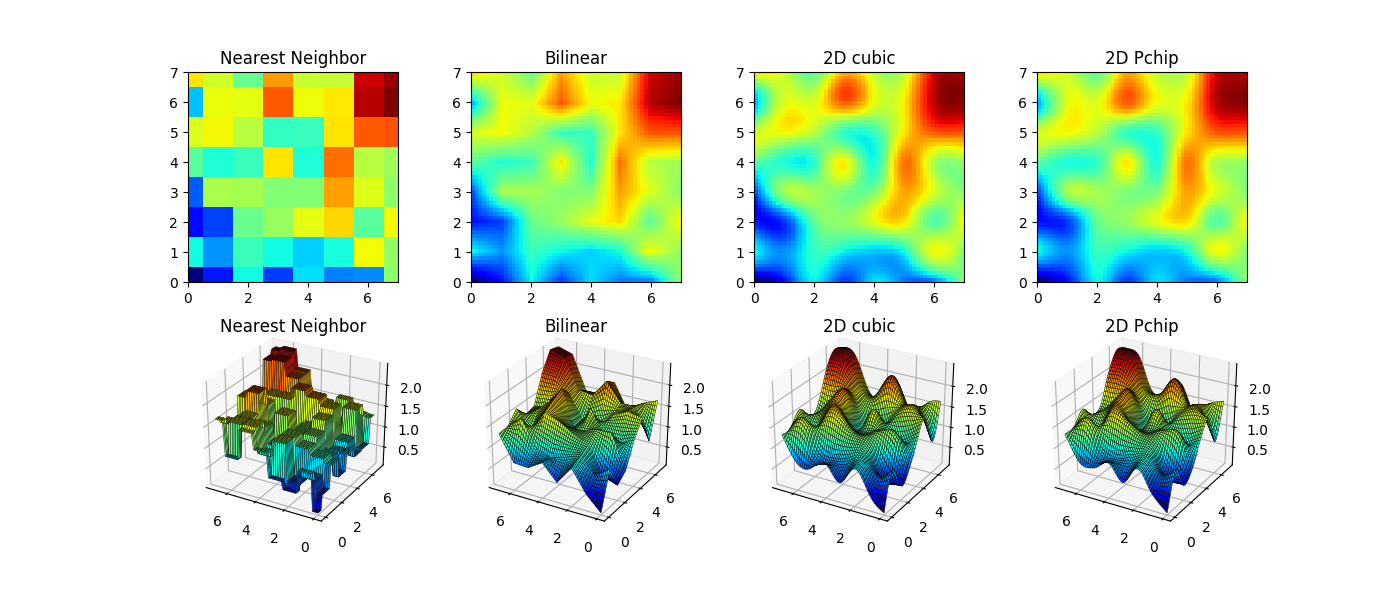
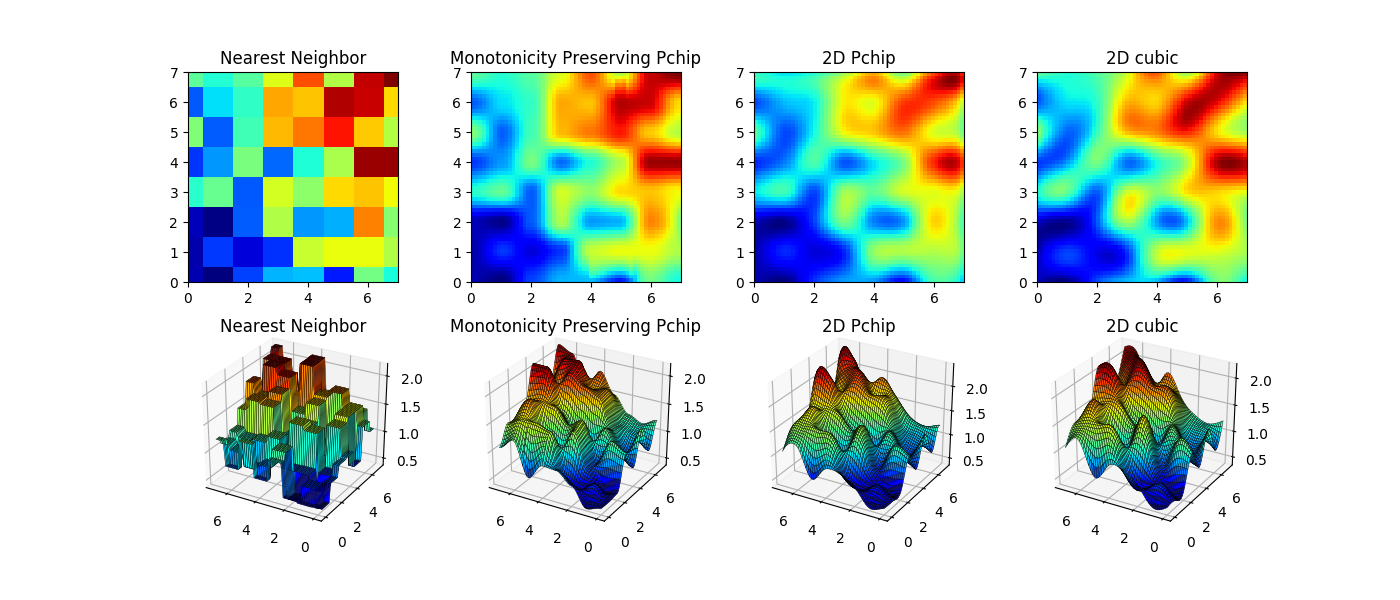
Modified code for pchip and mcpchip

diff --git a/src/main_1d.py b/src/main_1d.py
@@ -1,5 +1,7 @@
 import numpy as np
 import matplotlib.pyplot as plt
+import general_arithmetic
+import primative_interpolation
 import cubic_spline_interpolation
 import piecewise_cubic_hermite_spline
 import monotonicity_preserving_pchip
@@ -27,44 +29,80 @@ def test_runge_function(x):
 def baseline_4rd(x):
     return x ** 4
 
+def baseline_3rd(x):
+    return x ** 3
+
 def baseline_2rd(x):
     return x ** 2
 
-def error_convergence(interpolation_func, start, end, h_seq, test_funcs, test_names, name, derives="2"):
+def error_convergence(interpolation_func, start, end, h_seq, funcs, names, name, derives="2", save=False):
 
-    baseline = [test_funcs[-1](i) for i in h_seq]
-    err_ls = [[] for i in range(len(test_funcs) - 1)]
+    test_funcs = funcs[0]
+    test_names = names[0]
+
+    err_ls = [[] for i in range(len(test_funcs))]
 
     case = 0
     for h in h_seq:
         case += 1
         print("h={} case={}".format(h, case))
-        for i in range(len(test_funcs) - 1):
+        for i in range(len(test_funcs)):
             err, d = error_analysis(start, end, test_funcs[i], interpolation_func, h, 1000, derives=derives)
             err_ls[i].append(err)
     
     plt.figure(figsize=(10,4))
-    plt.title("Convergence Rate for {}".format(name))
+    plt.title("Error Convergence for {}".format(name))
 
-    for i in range(len(test_funcs) - 1):
+    for i in range(len(test_funcs)):
         plt.loglog(h_seq, err_ls[i], label=test_names[i])
     
-    plt.loglog(h_seq, baseline, 'k-.', label=test_names[-1])
+    baseline_funcs = funcs[1]
+    baseline_names = names[1]
+    for i in range(len(baseline_funcs)):
+        baseline = [baseline_funcs[i](j) for j in h_seq]
+        plt.loglog(h_seq, baseline, 'k-.', label=baseline_names[i])
+
     plt.legend(loc="upper left")
     plt.ylabel("Err")
     plt.xlabel("h")
+    if save:
+        print("save to{}".format("./plots/Error Convergence for {}.png".format(name)))
+        plt.savefig("./plots/Error Convergence for {}.png".format(name), dpi=200)
     # plt.loglog(h_ls, [x**4 for x in h_ls], c="red")
     plt.show()
 
 
+def demo_gen():
+
+    x = np.linspace(-1,1,20)
+    y = 1 / (1 + 25 * x ** 2)
+
+    tar_x = np.linspace(-1, 1, 400)
+    mc_pchip_1d = monotonicity_preserving_pchip.mc_pchip_1d_generator(x, y, tar_x, derives='2')
+    pchip_1d = piecewise_cubic_hermite_spline.pchip_1d_generator(x, y, tar_x, derives='2')
+    global_interpolation = primative_interpolation.global_polynomial_interpolation(x, y, tar_x)
+    gt = 1 / (1 + 25 * tar_x ** 2)
+
+    plt.plot(
+        x, y, ".k",
+        tar_x, gt, "-.k",
+        tar_x, global_interpolation,
+        tar_x, pchip_1d, markersize=10
+    )
+
+    plt.legend(["Interpolant", "Runge Function", "PCHIP"])
+    plt.show()
+
 def visualization_plot():
 
     x = np.arange(10)
-    y = np.array([1,2,3,5,13,12,11,40,39,35])
+    y = np.array([2, 2, 2, 2, 10, 10, 10, 12, 6, 1])
+    # x = np.linspace(-1,1,20)
+    # y = 1 / (1 + 25 * x ** 2)
     tar_x = np.linspace(x[0], x[-1], 100)
 
     pchip_1d = piecewise_cubic_hermite_spline.pchip_1d_generator(x, y, tar_x, derives='2')
-    mc_pchip_1d = monotonicity_preserving_pchip.mc_pchip_1d_generator(x, y, tar_x, derives='4')
+    mc_pchip_1d = monotonicity_preserving_pchip.mc_pchip_1d_generator(x, y, tar_x, derives='2')
     cubic_1d = cubic_spline_interpolation.cubic_spline_generator(x, y, tar_x)
 
     plt.figure(figsize=(12,6))
@@ -80,15 +118,22 @@ def visualization_plot():
 def convergence_analysis():
 
     h_sequence_spline = [1 / (1.5 ** i) for i in range(2, 25)]
-    test_funcs_spline = [test_sin_func, test_4rd_polynomial, test_runge_function, baseline_4rd]
-    test_names_spline = ["Runge Function", "Order-4 Polynomial", "Sin", "h^4 (baseline)"]
-    # error_convergence(cubic_spline_interpolation.cubic_spline_generator, -1, 1, h_sequence_spline, test_funcs_spline, test_names_spline, "Spline")
+    test_funcs_spline = [[test_sin_func, test_4rd_polynomial, test_runge_function], [baseline_4rd]]
+    test_names_spline = [["Runge Function", "Order-4 Polynomial", "Sin"], ["h^4 (baseline)"]]
+    error_convergence(cubic_spline_interpolation.cubic_spline_generator, -1, 1, h_sequence_spline, test_funcs_spline, test_names_spline, "Spline", save=True)
 
-    h_sequence_spline = [1 / (2 ** i) for i in range(2, 25)]
-    test_funcs_pchip = [test_sin_func, test_4rd_polynomial, test_runge_function, baseline_2rd]
-    test_names_pchip = ["Runge Function", "Order-4 Polynomial", "Sin", "h^2 (baseline)"]
-    error_convergence(piecewise_cubic_hermite_spline.pchip_1d_generator, -1, 1, h_sequence_spline, test_funcs_pchip, test_names_pchip, "Pchip", derives="2")
+    h_sequence_pchip = [1 / (1.5 ** i) for i in range(2, 30)]
+    test_funcs_pchip = [[test_sin_func, test_4rd_polynomial, test_runge_function], [baseline_3rd]]
+    test_names_pchip = [["Runge Function", "Order-4 Polynomial", "Sin"], ["h^3 (baseline)"]]
+    # error_convergence(piecewise_cubic_hermite_spline.pchip_1d_generator, -1, 1, h_sequence_pchip, test_funcs_pchip, test_names_pchip, "Pchip (Derivative Approx order 4)", derives="4", save=True)
 
-visualization_plot()
+    h_sequence_mc_pchip = [1 / (1.5 ** i) for i in range(2, 30)]
+    test_funcs_mc_pchip = [[test_sin_func, test_4rd_polynomial, test_runge_function], [baseline_3rd]]#, baseline_3rd]]
+    test_names_mc_pchip = [["Runge Function", "Order-4 Polynomial", "Sin"], ["h^3 (baseline)"]]#, "h^3 (baseline)"]]
+    # error_convergence(monotonicity_preserving_pchip.mc_pchip_1d_generator, -1, 1, h_sequence_mc_pchip, test_funcs_mc_pchip, test_names_mc_pchip, "Monotonicity preserving Pchip (Derivative Approx order 4)", derives="4", save=True)
 
-#convergence_analysis()
+#visualization_plot()
+
+convergence_analysis()
+
+#demo_gen()

diff --git a/src/monotonicity_preserving_pchip.py b/src/monotonicity_preserving_pchip.py
@@ -15,8 +15,8 @@ solve_mat = np.linalg.inv(np.array(
 def local_monotone_mask(dydx, x, y):
 
     assert isinstance(dydx, np.ndarray)
-    print(y)
-    print(dydx)
+    # print(y)
+    # print(dydx)
     
     ret = np.zeros_like(dydx)
     ret[0] = dydx[0]
@@ -28,19 +28,19 @@ def local_monotone_mask(dydx, x, y):
     zero_base = np.zeros(len(ret) - 2)
     S_min = np.minimum(slope[1:], slope[:-1])
     S_max = np.maximum(slope[1:], slope[:-1])
-    print(slope)
-    print(S_max)
-    print(S_min)
+    # print(slope)
+    # print(S_max)
+    # print(S_min)
 
     min_cond = np.minimum(np.maximum(zero_base, dydx[1:-1]), 3 * S_min)
     max_cond = np.maximum(np.minimum(zero_base, dydx[1:-1]), 3 * S_max)
 
     # print((S_min < 0), (S_max > 0), slope)
 
-    ret[1:-1] = min_cond * (S_min < 0) + max_cond * (S_max > 0)
-    ret = dydx
+    ret[1:-1] = min_cond * (S_min > 0) + max_cond * (S_max < 0)
+    # ret = dydx
     ret[1:-1] = ret[1:-1] * (1 - (S_min <= 0) * (S_max >= 0))
-    print(ret)
+    # print(ret)
     return ret
 
 def mc_pchip_coeff_generator(x, y, sort_x=False, derives="2"):
@@ -61,17 +61,19 @@ def mc_pchip_coeff_generator(x, y, sort_x=False, derives="2"):
         dydx = general_arithmetic.fourth_order_finitedif_derivative_approx(x, y)
 
     dydx = local_monotone_mask(dydx, x, y)
+    diff = x[1:] - x[:-1]
 
     coeff = np.zeros([4, len(x) - 1])
     coeff[0] = y[:-1]
     coeff[1] = y[1:]
-    # coeff[2] = (Y[2: -1] - Y[:-3]) / (2 * h)
-    # coeff[3] = (Y[3:] - Y[1:-2]) / (2 * h)
-    # print(dydx)
-    coeff[2] = dydx[:-1]
-    coeff[3] = dydx[1:]
-
+    coeff[2] = dydx[:-1] * diff
+    coeff[3] = dydx[1:] * diff
+    
     coeff = np.matmul(solve_mat, coeff)
+
+    coeff[1] = coeff[1] / diff
+    coeff[2] = coeff[2] / diff**2
+    coeff[3] = coeff[3] / diff**3
     coeff = np.transpose(coeff)
     return coeff
 

diff --git a/src/main_2d.py b/src/main_2d.py
@@ -2,6 +2,7 @@ import bicubic_spline
 import cubic_conv_interpolation
 import primative_interpolation
 import piecewise_cubic_hermite_spline
+import monotonicity_preserving_pchip
 import general_arithmetic
 import cubic_spline_interpolation
 import matplotlib.pyplot as plt
@@ -78,20 +79,25 @@ def general_comparison():
     plot_1(fig, 241, 245, nearest_neighbor_10, "Nearest Neighbor", color_map, scale, imx, imy, mat1_override=mat)
 
     # Bilinear
-    bilinear_10 = primative_interpolation.bilinear_helper(mat, scale)
-    plot_1(fig, 242, 246, bilinear_10, "Bilinear", color_map, scale, imx, imy)
+    # bilinear_10 = primative_interpolation.bilinear_helper(mat, scale)
+    # plot_1(fig, 242, 246, bilinear_10, "Bilinear", color_map, scale, imx, imy)
 
-    # Bicubic Spline
+    # Bicubic Hermite
     # bicubic_10 = bicubic_spline.bicubic_spline_helper(mat, scale)
     # plot_1(fig, 243, 247, bicubic_10, "Bicubic", color_map, scale, imx, imy)
 
-    # 2d cubic spline
-    cubic_2d = cubic_spline_interpolation.cubic_1d_to_2d(mat, scale)
-    plot_1(fig, 243, 247, cubic_2d, "2D cubic", color_map, scale, imx, imy)
-    
+    # 2d mc_pchip Spline
+    mc_pchip_2d = monotonicity_preserving_pchip.mc_pchip_base_helper(mat, scale)
+    plot_1(fig, 242, 246, mc_pchip_2d, "Monotonicity Preserving Pchip", color_map, scale, imx, imy)
+
+
     # 2d pchip Spline
     pchip_2d = piecewise_cubic_hermite_spline.pchip_base_helper(mat, scale)
-    plot_1(fig, 244, 248, pchip_2d, "2D Pchip", color_map, scale, imx, imy)
+    plot_1(fig, 243, 247, pchip_2d, "2D Pchip", color_map, scale, imx, imy)
+    
+    # 2d cubic spline
+    cubic_2d = cubic_spline_interpolation.cubic_1d_to_2d(mat, scale)
+    plot_1(fig, 244, 248, cubic_2d, "2D cubic", color_map, scale, imx, imy)
 
     plt.savefig('test.png', dpi=100)
     plt.show()

diff --git a/src/primative_interpolation.py b/src/primative_interpolation.py
@@ -13,27 +13,22 @@ def divided_difference_coefficient(x, y):
 
     return a
 
-def newton_polynomial_interpolation(x, y, tar):
+def global_polynomial_interpolation(x, y, tar):
 
-    coeff = divided_difference_coefficient(x, y)
-    print(coeff)
-    exit()
-    n = len(x) - 1
-    p = coeff[n]
-    for k in range(1, n + 1):
-        p = coeff[n-k] + (tar - x[n - k]) * p
-    return p
+    coeff = np.polyfit(x, y, deg=len(x)-1)
+    func = np.poly1d(coeff)
+    return func(tar)
 
-def polynomial_interpolation(L, scale):
+def global_polynomial_interpolation_scaled(L, scale):
 
-    ret = newton_polynomial_interpolation(np.arange(len(L)), L, tar=np.linspace(0, len(L) - 1, scale * (len(L) - 1) + 1))
-    print(ret)
-    
-    return ret
+    x = np.arange(len(L))
+    y = L
+    target_x = np.linspace(0, len(L) - 1, (len(L) - 1) * scale + 1)
+    return global_polynomial_interpolation(x, y, target_x)
 
 def polyfit2d_from1d_helper(M, scale):
 
-    return piecewise_1d_to_2d(M, polynomial_interpolation, scale)
+    return piecewise_1d_to_2d(M, global_polynomial_interpolation_scaled, scale)
 
 
 def bilinear_interpolation(M, pos):

diff --git a/src/piecewise_cubic_hermite_spline.py b/src/piecewise_cubic_hermite_spline.py
@@ -20,6 +20,7 @@ def pchip_coeff_generator(x, y, sort_x=False, derives="2"):
         sorted(x)
 
     assert len(x) == len(y)
+    diff = x[1:] - x[:-1]
     coeff = np.zeros([4, len(x) - 1])
     Y = array_padding_1D(y)
     h = x[1] - x[0]
@@ -32,12 +33,14 @@ def pchip_coeff_generator(x, y, sort_x=False, derives="2"):
     coeff = np.zeros([4, len(x) - 1])
     coeff[0] = y[:-1]
     coeff[1] = y[1:]
-    # coeff[2] = (Y[2: -1] - Y[:-3]) / (2 * h)
-    # coeff[3] = (Y[3:] - Y[1:-2]) / (2 * h)
-    coeff[2] = dydx[:-1]
-    coeff[3] = dydx[1:]
+    coeff[2] = dydx[:-1] * diff
+    coeff[3] = dydx[1:] * diff
+    # Rescale the problem to [0,1]
 
     coeff = np.matmul(solve_mat, coeff)
+    coeff[1] = coeff[1] / diff
+    coeff[2] = coeff[2] / (diff**2)
+    coeff[3] = coeff[3] / (diff**3)
     coeff = np.transpose(coeff)
     return coeff
 

diff --git a/src/general_arithmetic.py b/src/general_arithmetic.py
@@ -139,4 +139,3 @@ def fourth_order_finitedif_derivative_approx(x, y, boundary_uncentered=True):
         ret = (-Y[:-4] + 8 * Y[1:-3] - 8 * Y[3:-1] + Y[4:]) / (-X[:-4] + 8 * X[1:-3] - 8 * X[3:-1] + X[4:])
 
     return ret
-
